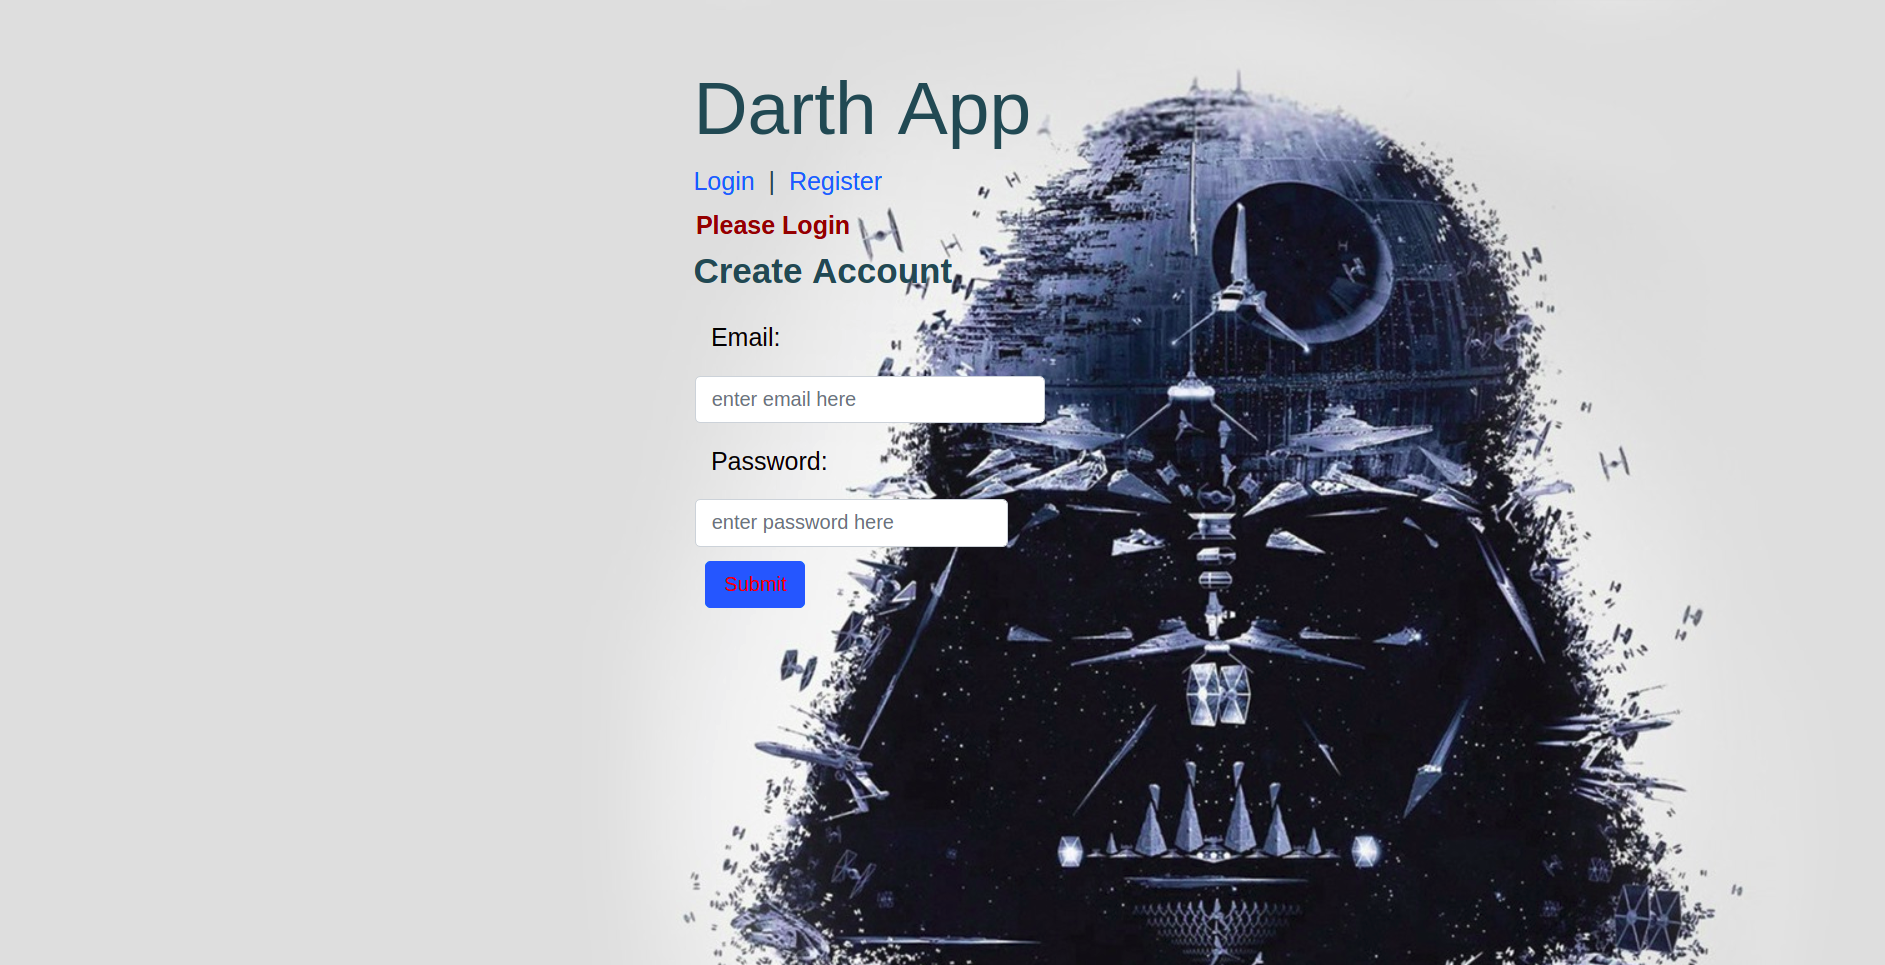
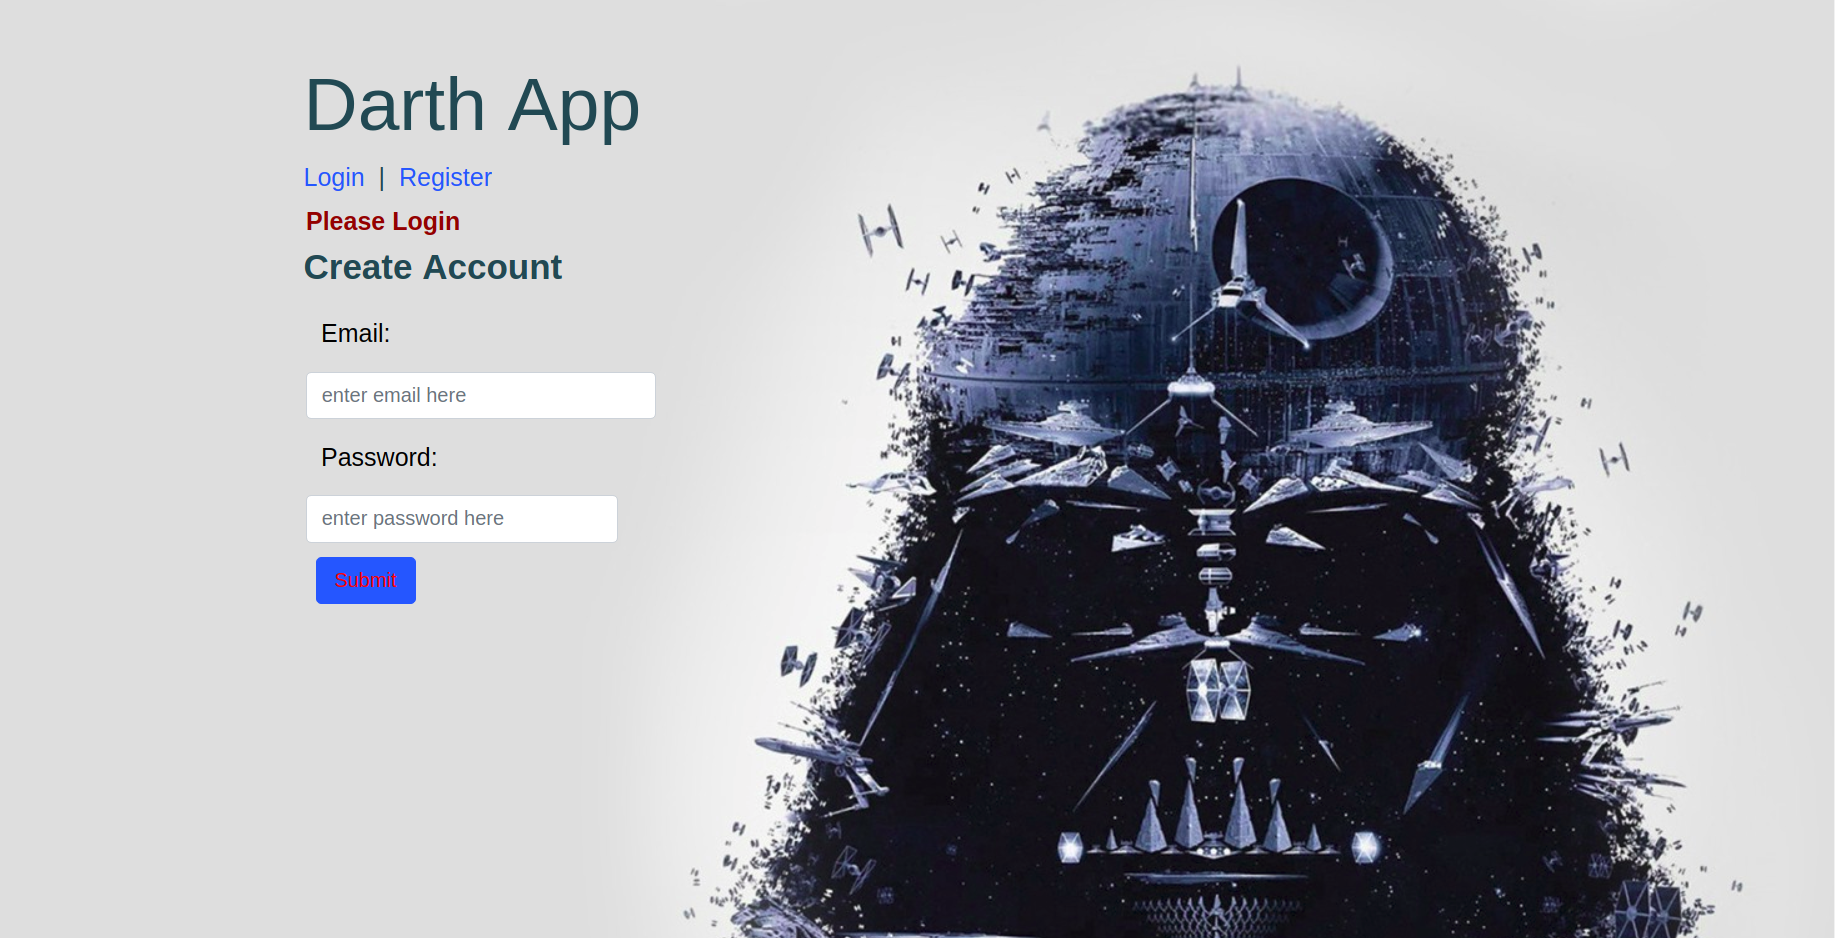
updated partials formatting

Changed region(s): [[0.1553, 0.0618, 0.9319, 1.0], [0.1553, 0.1855, 0.2796, 0.2473], [0.1553, 0.2783, 0.3106, 0.3092]]

diff --git a/public/styles.css b/public/styles.css
@@ -4,7 +4,7 @@ html {
 
 .constainer {
   background-image: url("/165770-Star_Wars.jpg");
-  margin-left: 33.33%;
+  margin-left: 13.33%;
   margin-right: 33.33%;
   margin-bottom: 50%;
   padding-bottom: 100%;
